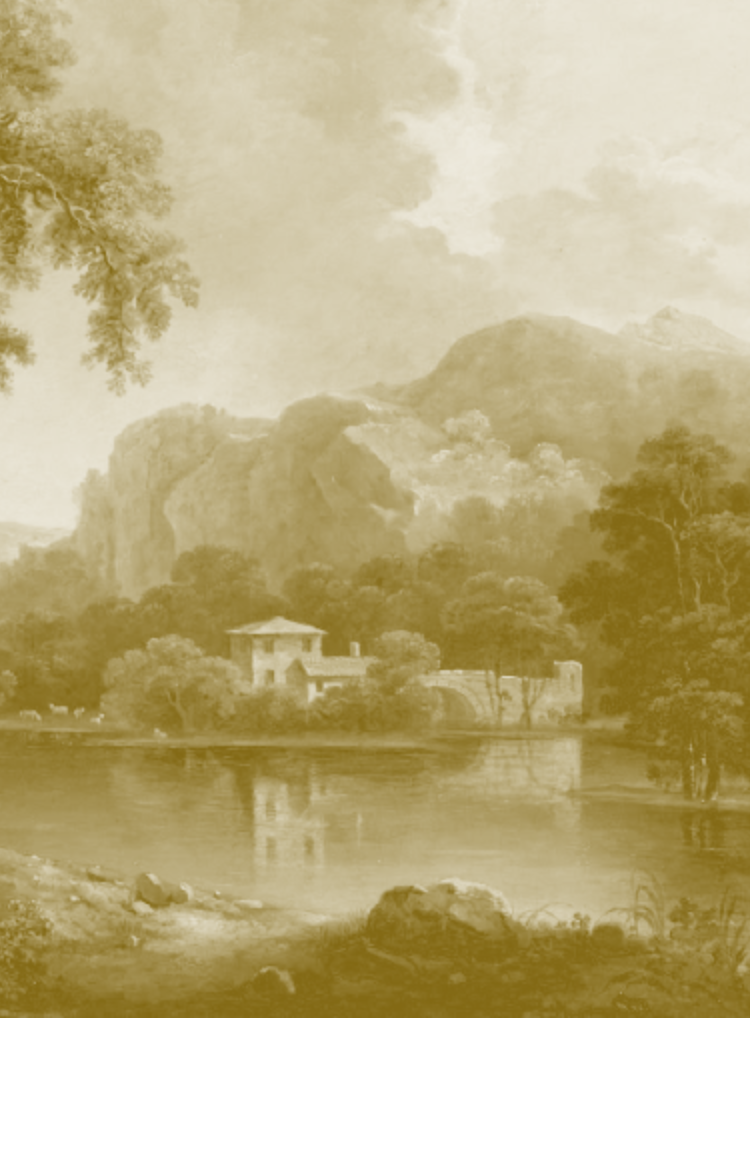
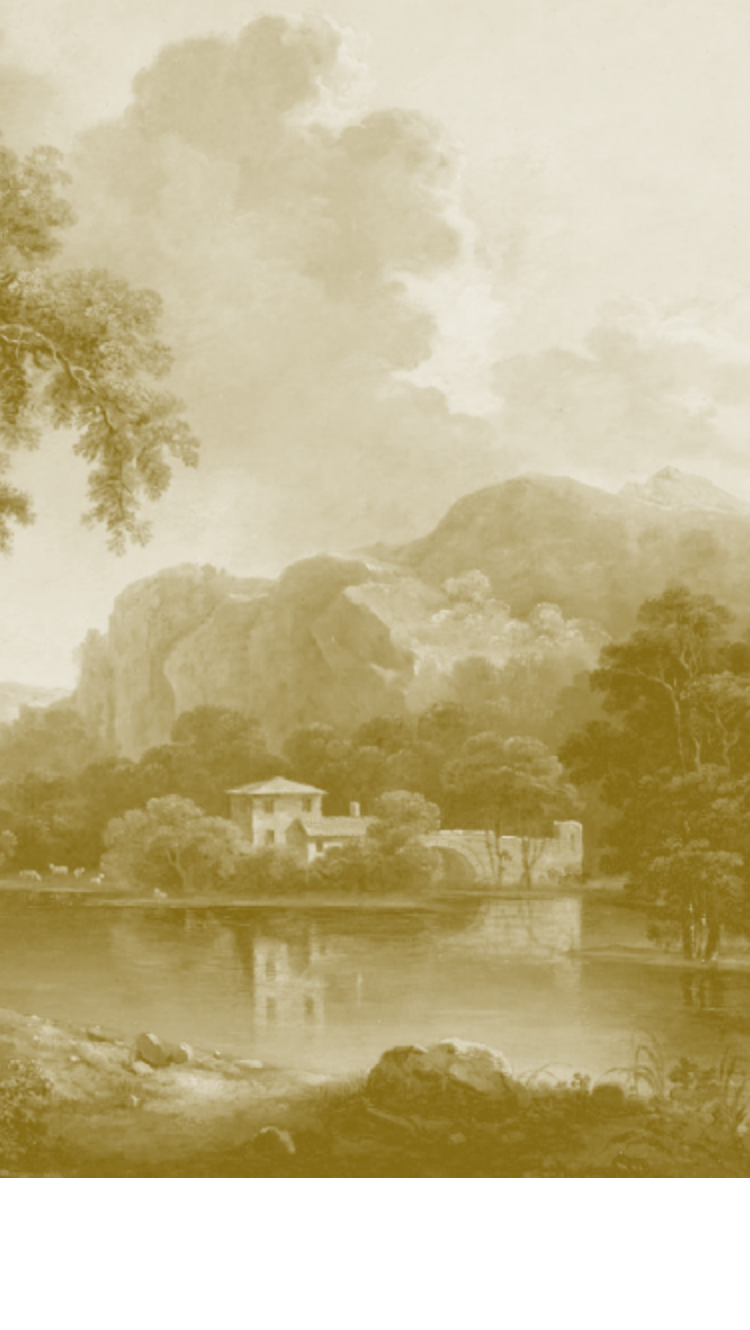
fix: blend section seams and add breathing room above quote

diff --git a/src/components/invite/QuoteSection.vue b/src/components/invite/QuoteSection.vue
@@ -57,19 +57,33 @@ const translation =
 .quote {
   position: relative;
   width: 100%;
-  aspect-ratio: 375 / 585;
+  /* bg + trees are re-exported at the taller 375/665 band (rel700-1365) so the
+     top breathing room after hero is filled with real scenery/foliage, not a flat band */
+  aspect-ratio: 375 / 665;
   overflow: hidden;
-  background: #89711f;
+  background: linear-gradient(180deg, #ded7c2 0%, #cdb98f 16%, #b0975f 64%, #b5a279 100%);
   isolation: isolate;
   container-type: inline-size;
+}
+/* blend the painting's hard bottom edge into the gold that the groom section continues */
+.quote::after {
+  content: "";
+  position: absolute;
+  left: 0;
+  right: 0;
+  bottom: 0;
+  height: 15%;
+  z-index: 1;
+  background: linear-gradient(180deg, rgba(181, 162, 121, 0) 0%, #b5a279 78%);
+  pointer-events: none;
 }
 
 .quote__layer {
   position: absolute;
-  inset: 0;
+  bottom: 0;
+  left: 0;
   width: 100%;
-  height: 100%;
-  object-fit: cover;
+  height: auto; /* 375×585 art keeps aspect, anchored to bottom; top 63u is spacer */
   max-width: none;
   opacity: 0;
   pointer-events: none;
@@ -77,7 +91,9 @@ const translation =
 }
 
 /* z-order back → front */
-.q-bg { z-index: 0; }
+/* bg + trees are the taller 375/665 crops → fill the whole section (spacer included);
+   every other layer is the 375/585 art anchored to the bottom */
+.q-bg, .q-trees { top: 0; bottom: 0; height: 100%; z-index: 0; }
 .q-trees { z-index: 1; }
 .q-oval { z-index: 2; }
 .q-div { z-index: 3; }
@@ -89,10 +105,10 @@ const translation =
 .quote__text {
   position: absolute;
   z-index: 4;
-  top: 14.5%;
+  top: 24.8%;
   left: 50%;
   transform: translateX(-50%);
-  width: 51%;
+  width: 46%;
   text-align: center;
   color: #905d2a;
 }
@@ -107,14 +123,14 @@ const translation =
 .q-arabic {
   margin: 0 0 2.8cqw;
   font-family: "Amiri", "Scheherazade New", "Traditional Arabic", serif;
-  font-size: 3.1cqw;
+  font-size: 3cqw;
   line-height: 1.8;
 }
 .q-transl {
   margin: 0;
   font-family: Georgia, "Times New Roman", serif;
-  font-size: 2.75cqw;
-  line-height: 1.5;
+  font-size: 2.5cqw;
+  line-height: 1.45;
 }
 
 /* ===== lebay, varied per-asset entrances, gated on scroll-in ===== */

diff --git a/src/components/invite/HeroSection.vue b/src/components/invite/HeroSection.vue
@@ -100,6 +100,19 @@ const sparkles = [
   background: #e8e1ce;
   isolation: isolate;
 }
+/* fade the joglo/landscape tail into the pale backdrop the quote painting continues,
+   so the hero→quote seam reads as one canvas (the original overlaps here) */
+.hero::after {
+  content: "";
+  position: absolute;
+  left: 0;
+  right: 0;
+  bottom: 0;
+  height: 16%;
+  z-index: 3;
+  background: linear-gradient(180deg, rgba(222, 215, 194, 0) 0%, #ded7c2 82%);
+  pointer-events: none;
+}
 
 .hero__part,
 .hero__fl {
